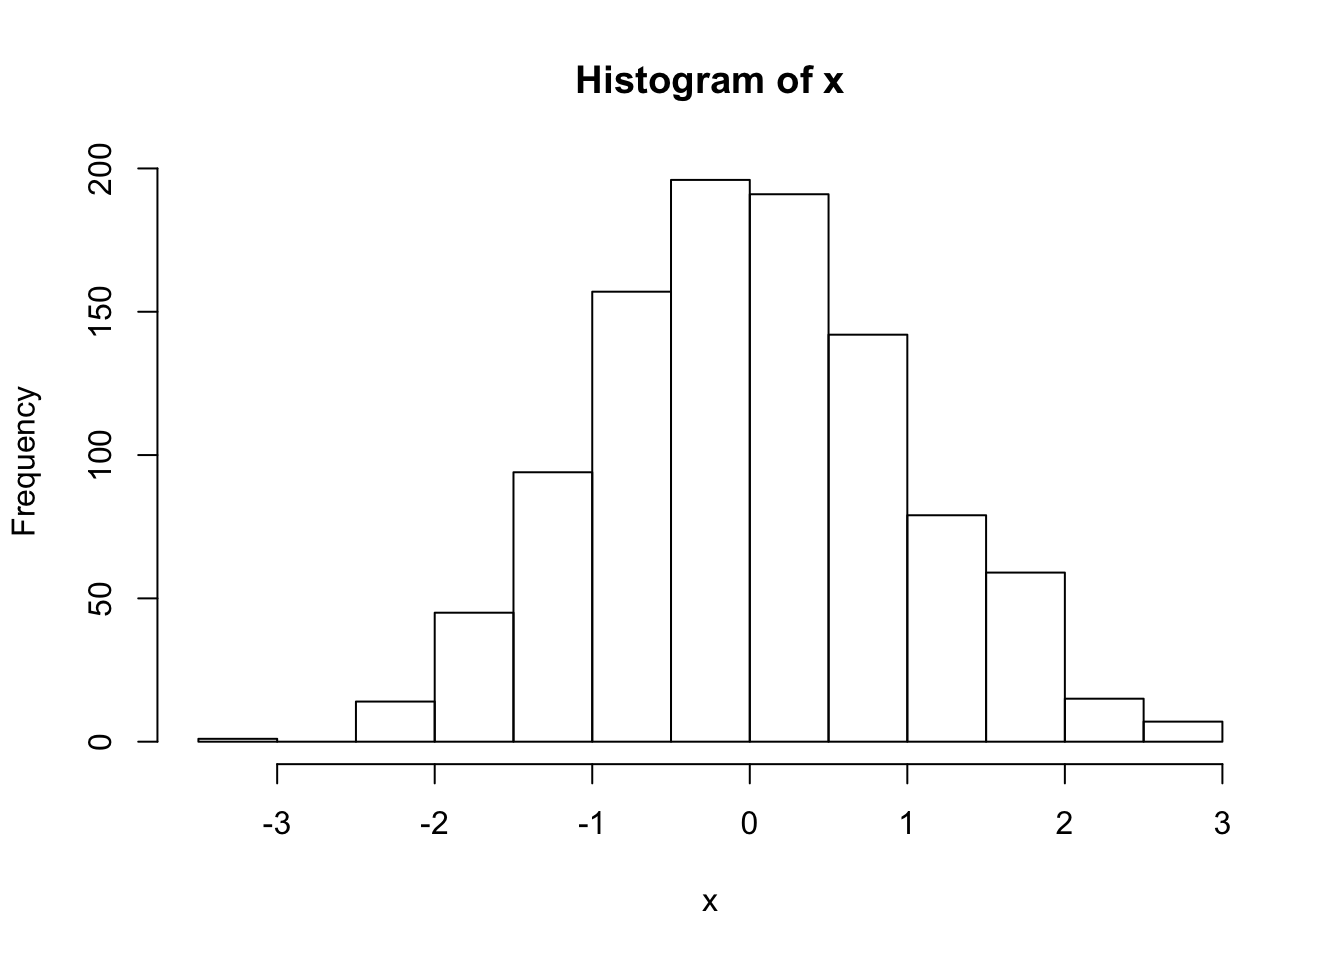
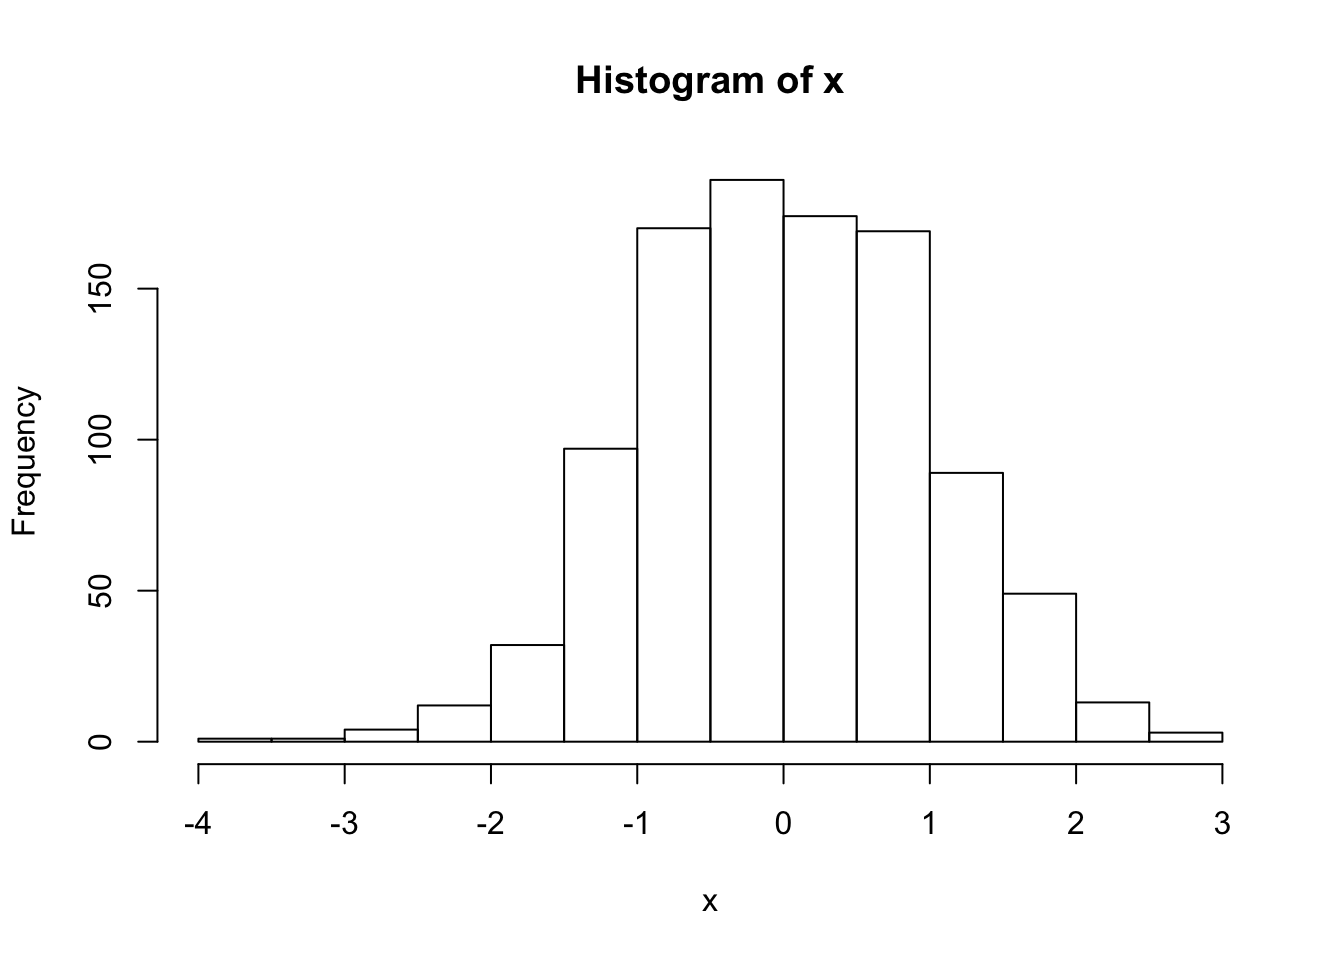
corrected ODEs to odes.html

diff --git a/docs/probability.html b/docs/probability.html
@@ -480,7 +480,7 @@ div.tocify {
       <a href="probability.html">Probability &amp; Sampling</a>
     </li>
     <li>
-      <a href="ODEs.html">Solving ODEs</a>
+      <a href="odes.html">Solving ODEs</a>
     </li>
     <li>
       <a href="optimization.html">Optimization</a>
@@ -534,7 +534,7 @@ div.tocify {
 <div class="sourceCode" id="cb5"><pre class="sourceCode r"><code class="sourceCode r"><span id="cb5-1"><a href="#cb5-1"></a><span class="kw">qbinom</span>(<span class="dt">p =</span> <span class="fl">0.5</span>, <span class="dt">size =</span> <span class="dv">10</span>, <span class="dt">prob =</span> <span class="fl">0.1</span>) <span class="co"># Quantile function at p=0.5</span></span></code></pre></div>
 <pre><code>## [1] 1</code></pre>
 <div class="sourceCode" id="cb7"><pre class="sourceCode r"><code class="sourceCode r"><span id="cb7-1"><a href="#cb7-1"></a><span class="kw">rbinom</span>(<span class="dt">n =</span> <span class="dv">20</span>, <span class="dt">size =</span> <span class="dv">10</span>, <span class="dt">prob =</span> <span class="fl">0.1</span>)  <span class="co"># Simulate a sample of size 20</span></span></code></pre></div>
-<pre><code>##  [1] 1 1 0 1 1 0 0 1 1 3 0 1 1 2 2 1 2 0 1 1</code></pre>
+<pre><code>##  [1] 1 3 1 1 1 0 1 2 0 1 0 0 2 2 1 3 1 1 0 1</code></pre>
 <p><strong>Poisson distribution</strong>: <span class="math inline">\(\text{Poiss}(\lambda)\)</span> with <span class="math inline">\(\lambda=2\)</span></p>
 <div class="sourceCode" id="cb9"><pre class="sourceCode r"><code class="sourceCode r"><span id="cb9-1"><a href="#cb9-1"></a><span class="kw">dpois</span>(<span class="dt">x =</span> <span class="dv">1</span>, <span class="dt">lambda =</span> <span class="dv">2</span>)     <span class="co"># Probability mass function at x=1</span></span>
 <span id="cb9-2"><a href="#cb9-2"></a><span class="kw">ppois</span>(<span class="dt">q =</span> <span class="dv">1</span>, <span class="dt">lambda =</span> <span class="dv">2</span>)     <span class="co"># Distribution function at q=1</span></span>
@@ -550,31 +550,31 @@ div.tocify {
 <h2>Function <code>sample</code></h2>
 <p>Function <code>sample</code> allows to draw a sample from a finite set of values, with or without replacement:</p>
 <div class="sourceCode" id="cb11"><pre class="sourceCode r"><code class="sourceCode r"><span id="cb11-1"><a href="#cb11-1"></a><span class="kw">sample</span>(<span class="dv">1</span><span class="op">:</span><span class="dv">10</span>, <span class="dt">size =</span> <span class="dv">8</span>, <span class="dt">replace =</span> <span class="ot">TRUE</span>)</span></code></pre></div>
-<pre><code>## [1] 9 4 9 9 5 5 6 2</code></pre>
+<pre><code>## [1] 5 4 6 4 4 6 1 1</code></pre>
 <div class="sourceCode" id="cb13"><pre class="sourceCode r"><code class="sourceCode r"><span id="cb13-1"><a href="#cb13-1"></a><span class="kw">sample</span>(<span class="dv">1</span><span class="op">:</span><span class="dv">10</span>, <span class="dt">size =</span> <span class="dv">8</span>, <span class="dt">replace =</span> <span class="ot">FALSE</span>)</span></code></pre></div>
-<pre><code>## [1]  8  2  4  7  1  3 10  9</code></pre>
+<pre><code>## [1]  4  3  7 10  1  5  9  8</code></pre>
 <p>The first argument can be any vector:</p>
 <div class="sourceCode" id="cb15"><pre class="sourceCode r"><code class="sourceCode r"><span id="cb15-1"><a href="#cb15-1"></a>letters</span></code></pre></div>
 <pre><code>##  [1] &quot;a&quot; &quot;b&quot; &quot;c&quot; &quot;d&quot; &quot;e&quot; &quot;f&quot; &quot;g&quot; &quot;h&quot; &quot;i&quot; &quot;j&quot; &quot;k&quot; &quot;l&quot; &quot;m&quot; &quot;n&quot; &quot;o&quot; &quot;p&quot; &quot;q&quot;
 ## [18] &quot;r&quot; &quot;s&quot; &quot;t&quot; &quot;u&quot; &quot;v&quot; &quot;w&quot; &quot;x&quot; &quot;y&quot; &quot;z&quot;</code></pre>
 <div class="sourceCode" id="cb17"><pre class="sourceCode r"><code class="sourceCode r"><span id="cb17-1"><a href="#cb17-1"></a><span class="kw">sample</span>(letters, <span class="dt">size =</span> <span class="dv">8</span>, <span class="dt">replace =</span> <span class="ot">FALSE</span>)</span></code></pre></div>
-<pre><code>## [1] &quot;i&quot; &quot;w&quot; &quot;c&quot; &quot;e&quot; &quot;f&quot; &quot;v&quot; &quot;o&quot; &quot;t&quot;</code></pre>
+<pre><code>## [1] &quot;c&quot; &quot;y&quot; &quot;b&quot; &quot;t&quot; &quot;w&quot; &quot;f&quot; &quot;k&quot; &quot;j&quot;</code></pre>
 <p>An optional argument <code>prob</code> can be used to specify unequal probabilities to obtain the values in the sample:</p>
 <div class="sourceCode" id="cb19"><pre class="sourceCode r"><code class="sourceCode r"><span id="cb19-1"><a href="#cb19-1"></a><span class="kw">sample</span>(<span class="dv">1</span><span class="op">:</span><span class="dv">4</span>, <span class="dt">size =</span> <span class="dv">10</span>, <span class="dt">replace =</span> <span class="ot">TRUE</span>, <span class="dt">prob =</span> <span class="kw">c</span>(<span class="fl">0.7</span>,<span class="fl">0.1</span>,<span class="fl">0.1</span>,<span class="fl">0.1</span>))</span></code></pre></div>
-<pre><code>##  [1] 1 1 2 4 1 1 1 4 1 3</code></pre>
+<pre><code>##  [1] 1 1 1 3 3 1 3 2 4 1</code></pre>
 <p>Function <code>sample.int</code> is a faster version for sampling from the set <code>1:n</code> (among others, this function is very useful for bootstrapping):</p>
 <div class="sourceCode" id="cb21"><pre class="sourceCode r"><code class="sourceCode r"><span id="cb21-1"><a href="#cb21-1"></a><span class="kw">sample.int</span>(<span class="dv">10</span>, <span class="dt">size =</span> <span class="dv">10</span>, <span class="dt">replace =</span> <span class="ot">TRUE</span>)</span></code></pre></div>
-<pre><code>##  [1] 3 3 6 2 7 7 8 4 9 3</code></pre>
+<pre><code>##  [1]  3  7  5  7  3 10  3  8  3  1</code></pre>
 </div>
 <div id="random-numbers-and-seeds" class="section level2">
 <h2>Random numbers and seeds</h2>
 <p>The sampling functions <code>r***</code> and <code>sample</code> use peudorandom numbers based on the current processor time. This means that running the same code twice will give different results if sampling functions are involved:</p>
 <div class="sourceCode" id="cb23"><pre class="sourceCode r"><code class="sourceCode r"><span id="cb23-1"><a href="#cb23-1"></a><span class="kw">rnorm</span>(<span class="dv">10</span>)</span></code></pre></div>
-<pre><code>##  [1]  0.62900306 -0.98529984  0.51327365 -0.94868497 -0.45599910
-##  [6]  0.09213875 -0.41493768  1.02794381  0.30792652  0.49786035</code></pre>
+<pre><code>##  [1] -1.0069403 -0.5228633  0.4793509 -0.4430982  1.6586989 -1.8185024
+##  [7]  0.2635143 -0.6598743 -0.3944538 -0.5696327</code></pre>
 <div class="sourceCode" id="cb25"><pre class="sourceCode r"><code class="sourceCode r"><span id="cb25-1"><a href="#cb25-1"></a><span class="kw">rnorm</span>(<span class="dv">10</span>)</span></code></pre></div>
-<pre><code>##  [1]  1.16738868  0.59519145 -0.06034887  0.14943587 -0.59614595
-##  [6]  0.73927081 -0.84580986  0.08886704  0.18199581  1.39014106</code></pre>
+<pre><code>##  [1]  1.3647149  0.2449891 -0.1983319  0.9728028  0.3166410  0.9700595
+##  [7] -1.0454318 -0.1665198  1.1690159  2.8394456</code></pre>
 <p>In many cases, this behaviour is desired – after all, these functions are used to describe the outcome of a random process! However, there is a reproducibility problem if running the same script twice (by different people, at different times, …) yields different results. It is therefore strongly recommended to set a <em>seed</em> for the random number generator at the beginning of a script:</p>
 <div class="sourceCode" id="cb27"><pre class="sourceCode r"><code class="sourceCode r"><span id="cb27-1"><a href="#cb27-1"></a><span class="kw">set.seed</span>(<span class="dv">12345</span>) <span class="co"># any number will do</span></span>
 <span id="cb27-2"><a href="#cb27-2"></a><span class="kw">rnorm</span>(<span class="dv">10</span>)</span></code></pre></div>

diff --git a/docs/writefunction.html b/docs/writefunction.html
@@ -480,7 +480,7 @@ div.tocify {
       <a href="probability.html">Probability &amp; Sampling</a>
     </li>
     <li>
-      <a href="ODEs.html">Solving ODEs</a>
+      <a href="odes.html">Solving ODEs</a>
     </li>
     <li>
       <a href="optimization.html">Optimization</a>
@@ -545,10 +545,10 @@ div.tocify {
 <span id="cb8-3"><a href="#cb8-3"></a>    <span class="kw">paste</span>(<span class="st">&quot;Current time:&quot;</span>, str)</span>
 <span id="cb8-4"><a href="#cb8-4"></a>}</span>
 <span id="cb8-5"><a href="#cb8-5"></a><span class="kw">report_time</span>()</span></code></pre></div>
-<pre><code>## [1] &quot;Current time: Tue Aug 25 19:54:41 2020&quot;</code></pre>
+<pre><code>## [1] &quot;Current time: Thu Aug 27 07:54:20 2020&quot;</code></pre>
 <div class="sourceCode" id="cb10"><pre class="sourceCode r"><code class="sourceCode r"><span id="cb10-1"><a href="#cb10-1"></a><span class="kw">Sys.sleep</span>(<span class="dv">1</span>)    <span class="co"># wait for 1 sec</span></span>
 <span id="cb10-2"><a href="#cb10-2"></a><span class="kw">report_time</span>()</span></code></pre></div>
-<pre><code>## [1] &quot;Current time: Tue Aug 25 19:54:42 2020&quot;</code></pre>
+<pre><code>## [1] &quot;Current time: Thu Aug 27 07:54:21 2020&quot;</code></pre>
 <ol start="4" style="list-style-type: decimal">
 <li>A function calling another function on a fixed numeric vector</li>
 </ol>
@@ -600,7 +600,7 @@ div.tocify {
 <span id="cb20-10"><a href="#cb20-10"></a>}</span>
 <span id="cb20-11"><a href="#cb20-11"></a>tend   &lt;-<span class="st"> </span><span class="kw">Sys.time</span>()</span>
 <span id="cb20-12"><a href="#cb20-12"></a>tend <span class="op">-</span><span class="st"> </span>tstart         <span class="co"># check the runtime</span></span></code></pre></div>
-<pre><code>## Time difference of 1.031357 secs</code></pre>
+<pre><code>## Time difference of 1.048787 secs</code></pre>
 <p>In these cases, it is preferrable to perform the task once outside the function:</p>
 <div class="sourceCode" id="cb22"><pre class="sourceCode r"><code class="sourceCode r"><span id="cb22-1"><a href="#cb22-1"></a>tstart &lt;-<span class="st"> </span><span class="kw">Sys.time</span>()</span>
 <span id="cb22-2"><a href="#cb22-2"></a>data &lt;-<span class="st"> </span>{<span class="kw">Sys.sleep</span>(<span class="fl">0.1</span>); <span class="dv">4</span>}</span>
@@ -612,7 +612,7 @@ div.tocify {
 <span id="cb22-8"><a href="#cb22-8"></a>}    </span>
 <span id="cb22-9"><a href="#cb22-9"></a>tend   &lt;-<span class="st"> </span><span class="kw">Sys.time</span>()</span>
 <span id="cb22-10"><a href="#cb22-10"></a>tend <span class="op">-</span><span class="st"> </span>tstart        </span></code></pre></div>
-<pre><code>## Time difference of 0.112025 secs</code></pre>
+<pre><code>## Time difference of 0.1101031 secs</code></pre>
 </div>
 
 

diff --git a/docs/controlflow.html b/docs/controlflow.html
@@ -480,7 +480,7 @@ div.tocify {
       <a href="probability.html">Probability &amp; Sampling</a>
     </li>
     <li>
-      <a href="ODEs.html">Solving ODEs</a>
+      <a href="odes.html">Solving ODEs</a>
     </li>
     <li>
       <a href="optimization.html">Optimization</a>
@@ -530,7 +530,7 @@ div.tocify {
 <p>Let’s give an example:</p>
 <div class="sourceCode" id="cb3"><pre class="sourceCode r"><code class="sourceCode r"><span id="cb3-1"><a href="#cb3-1"></a>x &lt;-<span class="st"> </span><span class="kw">rnorm</span>(<span class="dv">1</span>)         <span class="co"># normally distributed pseudorandom number</span></span>
 <span id="cb3-2"><a href="#cb3-2"></a>x</span></code></pre></div>
-<pre><code>## [1] -0.9016708</code></pre>
+<pre><code>## [1] -0.02385165</code></pre>
 <div class="sourceCode" id="cb5"><pre class="sourceCode r"><code class="sourceCode r"><span id="cb5-1"><a href="#cb5-1"></a><span class="cf">if</span> (x <span class="op">&gt;</span><span class="st"> </span><span class="dv">0</span>) {</span>
 <span id="cb5-2"><a href="#cb5-2"></a>    <span class="kw">print</span>(<span class="st">&quot;x is positive&quot;</span>)</span>
 <span id="cb5-3"><a href="#cb5-3"></a>} <span class="cf">else</span> {    </span>
@@ -616,7 +616,7 @@ div.tocify {
 <span id="cb18-8"><a href="#cb18-8"></a>    }</span>
 <span id="cb18-9"><a href="#cb18-9"></a>}</span>
 <span id="cb18-10"><a href="#cb18-10"></a>nfail</span></code></pre></div>
-<pre><code>## [1] 5</code></pre>
+<pre><code>## [1] 14</code></pre>
 </div>
 </div>
 

diff --git a/docs/datatypes.html b/docs/datatypes.html
@@ -480,7 +480,7 @@ div.tocify {
       <a href="probability.html">Probability &amp; Sampling</a>
     </li>
     <li>
-      <a href="ODEs.html">Solving ODEs</a>
+      <a href="odes.html">Solving ODEs</a>
     </li>
     <li>
       <a href="optimization.html">Optimization</a>
@@ -736,7 +736,7 @@ div.tocify {
 <div class="sourceCode" id="cb71"><pre class="sourceCode r"><code class="sourceCode r"><span id="cb71-1"><a href="#cb71-1"></a>force</span></code></pre></div>
 <pre><code>## function (x) 
 ## x
-## &lt;bytecode: 0x7faf4b943bf8&gt;
+## &lt;bytecode: 0x7fd489924bf8&gt;
 ## &lt;environment: namespace:base&gt;</code></pre>
 <p>Here, <code>x</code> is the single formal argument, <code>x</code> is also the function body, and the function environment is the (namespace of the) “base” package.</p>
 </div>

diff --git a/docs/index.html b/docs/index.html
@@ -306,7 +306,7 @@ $(document).ready(function () {
       <a href="probability.html">Probability &amp; Sampling</a>
     </li>
     <li>
-      <a href="ODEs.html">Solving ODEs</a>
+      <a href="odes.html">Solving ODEs</a>
     </li>
     <li>
       <a href="optimization.html">Optimization</a>

diff --git a/docs/playground.html b/docs/playground.html
@@ -306,7 +306,7 @@ $(document).ready(function () {
       <a href="probability.html">Probability &amp; Sampling</a>
     </li>
     <li>
-      <a href="ODEs.html">Solving ODEs</a>
+      <a href="odes.html">Solving ODEs</a>
     </li>
     <li>
       <a href="optimization.html">Optimization</a>

diff --git a/docs/basics.html b/docs/basics.html
@@ -480,7 +480,7 @@ div.tocify {
       <a href="probability.html">Probability &amp; Sampling</a>
     </li>
     <li>
-      <a href="ODEs.html">Solving ODEs</a>
+      <a href="odes.html">Solving ODEs</a>
     </li>
     <li>
       <a href="optimization.html">Optimization</a>

diff --git a/docs/dataframes.html b/docs/dataframes.html
@@ -480,7 +480,7 @@ div.tocify {
       <a href="probability.html">Probability &amp; Sampling</a>
     </li>
     <li>
-      <a href="ODEs.html">Solving ODEs</a>
+      <a href="odes.html">Solving ODEs</a>
     </li>
     <li>
       <a href="optimization.html">Optimization</a>

diff --git a/docs/dataimport.html b/docs/dataimport.html
@@ -480,7 +480,7 @@ div.tocify {
       <a href="probability.html">Probability &amp; Sampling</a>
     </li>
     <li>
-      <a href="ODEs.html">Solving ODEs</a>
+      <a href="odes.html">Solving ODEs</a>
     </li>
     <li>
       <a href="optimization.html">Optimization</a>

diff --git a/docs/functioncall.html b/docs/functioncall.html
@@ -480,7 +480,7 @@ div.tocify {
       <a href="probability.html">Probability &amp; Sampling</a>
     </li>
     <li>
-      <a href="ODEs.html">Solving ODEs</a>
+      <a href="odes.html">Solving ODEs</a>
     </li>
     <li>
       <a href="optimization.html">Optimization</a>

diff --git a/docs/odes.html b/docs/odes.html
@@ -480,7 +480,7 @@ div.tocify {
       <a href="probability.html">Probability &amp; Sampling</a>
     </li>
     <li>
-      <a href="ODEs.html">Solving ODEs</a>
+      <a href="odes.html">Solving ODEs</a>
     </li>
     <li>
       <a href="optimization.html">Optimization</a>

diff --git a/docs/optimization.html b/docs/optimization.html
@@ -480,7 +480,7 @@ div.tocify {
       <a href="probability.html">Probability &amp; Sampling</a>
     </li>
     <li>
-      <a href="ODEs.html">Solving ODEs</a>
+      <a href="odes.html">Solving ODEs</a>
     </li>
     <li>
       <a href="optimization.html">Optimization</a>
